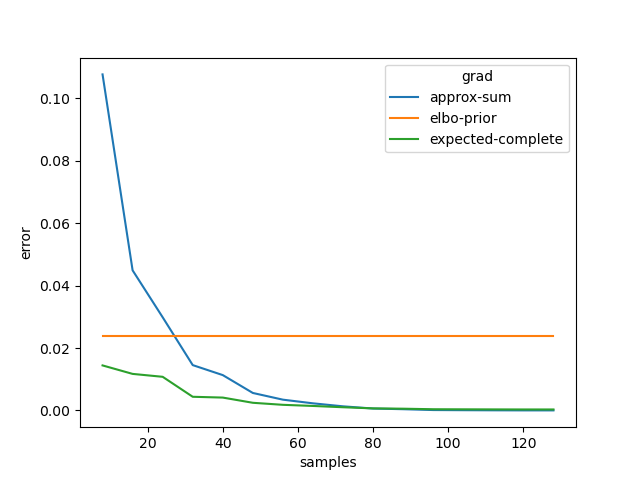
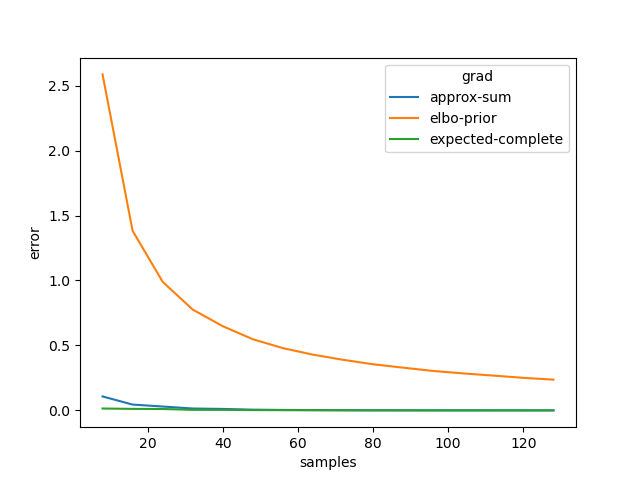
fix elbo prior

diff --git a/main.py b/main.py
@@ -42,8 +42,8 @@ def get_error(rng, n_samples):
     def elbo_prior(lpxgz, lpz, obs, z):
         return (
             lpxgz[obs[:,None], z]
-            + lax.stop_gradient(lpxgz[obs[:,None], z] * lpz[z])
-        ).sum(1).mean()
+            + lax.stop_gradient(lpxgz[obs[:,None], z]) * lpz[z]
+        ).mean()
 
     def expected_complete(lpxgz, lpz, obs, z):
         lpxz = lpxgz + lpz
